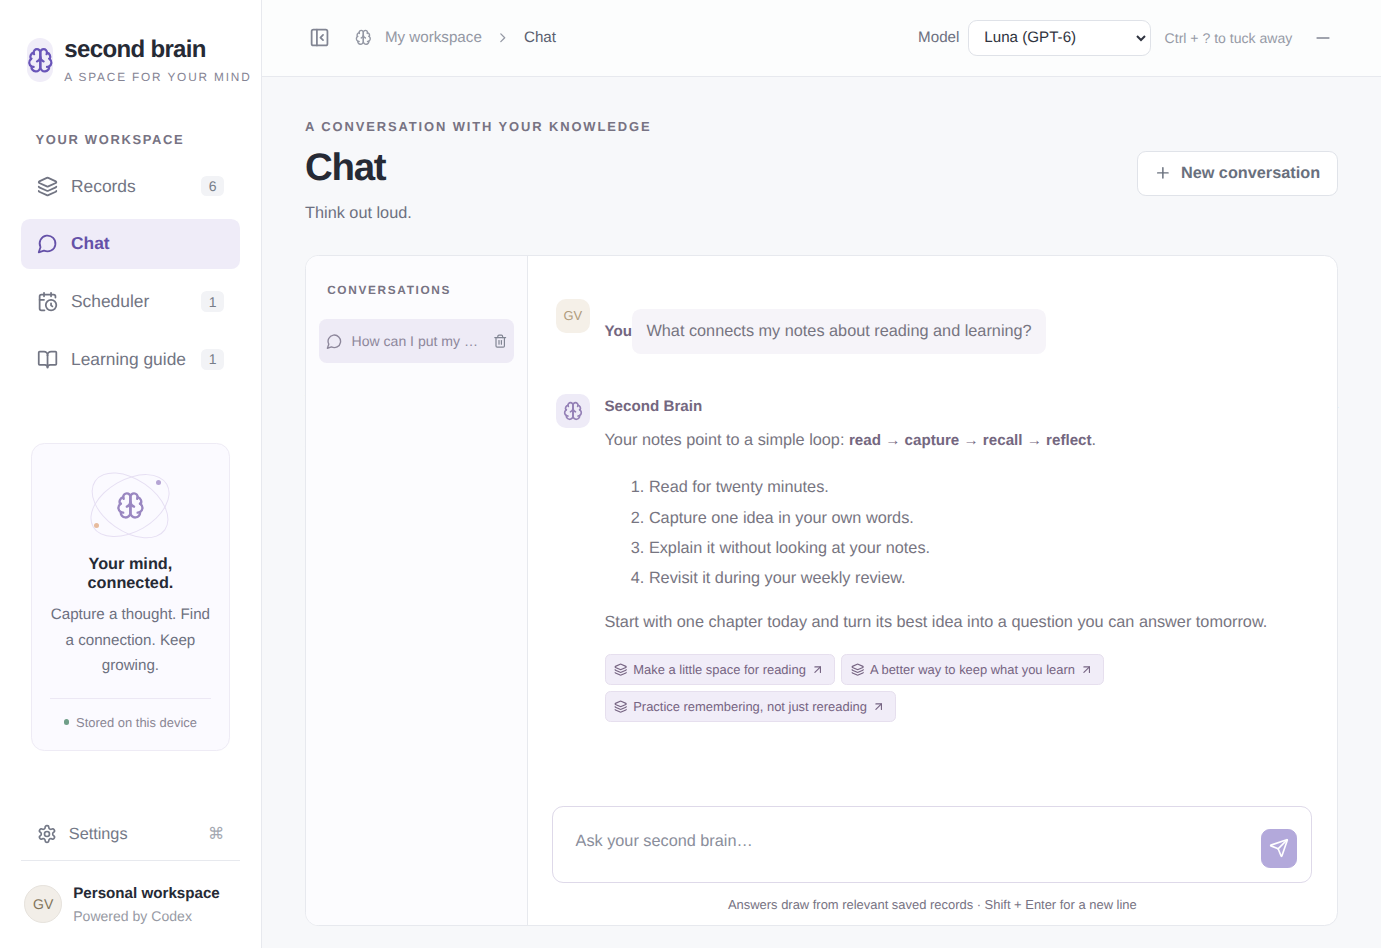
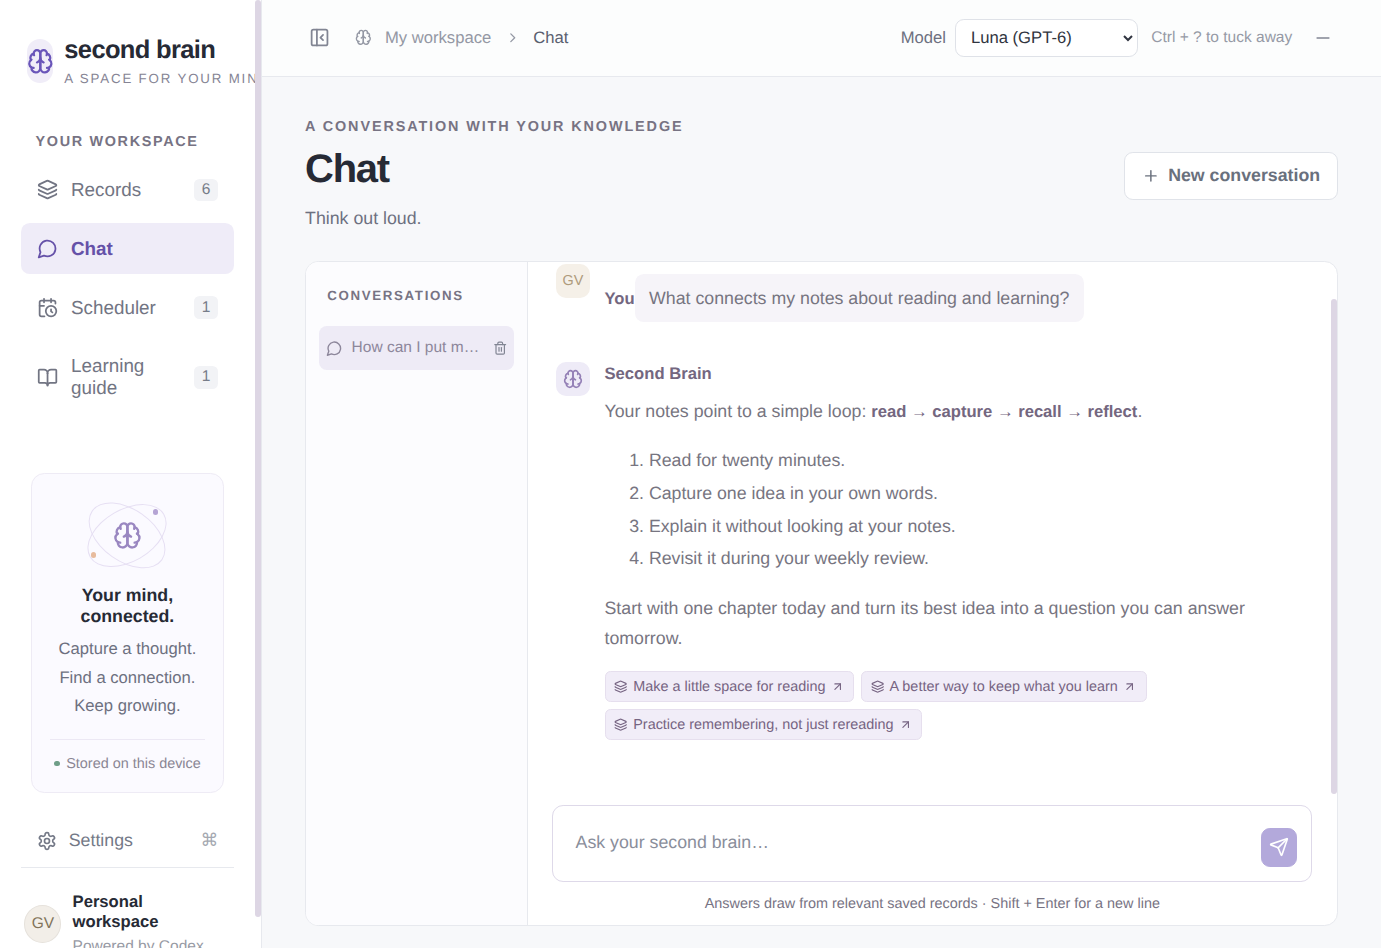
Enable login startup, LocalAM tracking, and persistent text-size shortcuts

diff --git a/src/main.tsx b/src/main.tsx
@@ -273,6 +273,11 @@ function App() {
   const [data, setData] = useState<Snapshot | null>(null),
     [tab, setTab] = useState("Records"),
     [query, setQuery] = useState(""),
+    [fontPoints, setFontPoints] = useState(() => {
+      const saved = localStorage.getItem("brain.fontPoints");
+      const value = saved === null ? 3 : Number(saved);
+      return Number.isFinite(value) ? Math.min(12, Math.max(0, value)) : 3;
+    }),
     [sidebarCollapsed, setSidebarCollapsed] = useState(
       () => localStorage.getItem("brain.sidebarCollapsed") === "true",
     ),
@@ -297,10 +302,35 @@ function App() {
     } | null>(null);
   const chatEnd = useRef<HTMLDivElement>(null);
   useEffect(() => {
+    localStorage.setItem("brain.fontPoints", String(fontPoints));
+  }, [fontPoints]);
+  useEffect(
+    () =>
+      api.onFontAdjust((direction) =>
+        setFontPoints((current) =>
+          Math.min(12, Math.max(0, current + direction)),
+        ),
+      ),
+    [],
+  );
+  useEffect(() => {
     localStorage.setItem("brain.sidebarCollapsed", String(sidebarCollapsed));
   }, [sidebarCollapsed]);
   useEffect(() => {
     const shortcuts = (event: KeyboardEvent) => {
+      if (
+        event.ctrlKey &&
+        !event.altKey &&
+        !event.metaKey &&
+        ["+", "=", "-"].includes(event.key)
+      ) {
+        event.preventDefault();
+        event.stopPropagation();
+        setFontPoints((current) =>
+          Math.min(12, Math.max(0, current + (event.key === "-" ? -1 : 1))),
+        );
+        return;
+      }
       if (
         !event.ctrlKey ||
         event.altKey ||
@@ -458,7 +488,10 @@ function App() {
     "Learning guide": "Follow your curiosity.",
   };
   return (
-    <div className={`app ${sidebarCollapsed ? "sidebar-collapsed" : ""}`}>
+    <div
+      className={`app ${sidebarCollapsed ? "sidebar-collapsed" : ""}`}
+      style={{ "--font-increase": `${fontPoints}pt` } as React.CSSProperties}
+    >
       <aside
         className="sidebar"
         id="workspace-sidebar"
@@ -2244,6 +2277,10 @@ function SettingsDialog({
         )}
         <div className="settings-shortcuts">
           <h3>Workspace shortcuts</h3>
+          <p>
+            <span>Increase / decrease text size</span>
+            <kbd>Ctrl++ / Ctrl+-</kbd>
+          </p>
           <p>
             <span>Toggle sidebar</span>
             <kbd>Ctrl + E</kbd>

diff --git a/src/types.ts b/src/types.ts
@@ -78,6 +78,7 @@ export type Snapshot = {
 declare global {
   interface Window {
     brain: Record<string, (...args: any[]) => Promise<any>> & {
+      onFontAdjust: (callback: (direction: number) => void) => () => void;
       onChange: (callback: () => void) => () => void;
       onNotice: (callback: (message: string) => void) => () => void;
     };

diff --git a/src/style.css b/src/style.css
@@ -16,7 +16,7 @@
   --surface: #fff;
   --soft: #f2effa;
   --radius: 12px;
-  --font-increase: 2pt;
+  --font-increase: 3pt;
 }
 * {
   box-sizing: border-box;
@@ -2115,4 +2115,8 @@ html:has(.bubble-shell) {
   .sidebar-note {
     display: none;
   }
+}
+
+.app {
+  font-size: calc(14px + var(--font-increase));
 }

diff --git a/README.md b/README.md
@@ -44,12 +44,31 @@ For development, run `npm run dev`. On Linux, `npm run install:desktop` adds Sec
 
 Open **Settings** to set an absolute Codex executable path if desktop apps cannot find your shell's PATH. Luna (`gpt-6-luna`) is the default. Use the model selector in the top bar for any new request, or choose a default under Settings. The selector reads your Codex model catalog; Settings also accepts a custom model ID. The selection applies to records, chat, schedules, and learning guides. **Check saved connection** checks the CLI version and authentication status without making an LLM call.
 
+## Start automatically on Linux
+
+Enable the brain bubble at graphical login:
+
+```sh
+npm run install:startup
+```
+
+This installs a per-user XDG autostart entry at `~/.config/autostart/second-brain.desktop`. The bubble appears after login while the workspace stays hidden. Click the bubble or use Ctrl + ? to open it. Running a second background instance keeps the existing workspace hidden. Remove the autostart file to disable login startup. When registered as the Second Brain desktop app in LocalAM, a standalone startup instance also reports its PID to LocalAM so it can show running status and stop it. Instances already launched in a manager-owned process group keep the manager’s existing tracking.
+
+If Ubuntu blocks Electron with a sandbox-helper or user-namespace error, install the app-specific AppArmor profile:
+
+```sh
+npm run install:sandbox
+```
+
+This validates the profile, requests administrator authentication through the system dialog, and installs `/etc/apparmor.d/second-brain` for this project's Electron and packaged executables. Electron's sandbox remains enabled. If you move the project, rerun both installers.
+
 ## Desktop companion
 
 - Drag the brain bubble in any direction, to any screen edge or monitor; its position is remembered. Linux uses a dock-style companion window and full display bounds so the bubble can reach the system-bar area. The desktop controls whether its own panel draws above the bubble.
 - The bubble tracks the native desktop cursor during a drag and keeps a fixed window size, including on displays with fractional scaling. Its transparent window cannot grow into an invisible overlay over the workspace.
 - If you lose the bubble, use **Settings → Show / reset bubble** or the tray menu to reveal it on the current monitor.
 - The bubble is 20% smaller, uses 70% opacity, and keeps its own zoom setting so workspace zoom cannot clip it.
+- Text is one point larger than the previous default. Use **Ctrl + +** (or Ctrl + =) to increase text by one point, and **Ctrl + -** to decrease it. The setting is remembered and changes text without zooming the brain bubble.
 - Toggle the sidebar with **Ctrl + E** or the sidebar button in the top bar. The collapsed menu keeps navigation icons available and remembers its state. While the app is focused, **Ctrl + 1** opens Records, **Ctrl + 2** Chat, **Ctrl + 3** Scheduler, and **Ctrl + 4** Learning guide.
 - Click the bubble or press **Ctrl + Shift + /** (Ctrl + ? on a US keyboard) to expand or collapse the workspace.
 - Select text in another app and press **Ctrl + Shift + .** (Ctrl + > on a US keyboard) to create a record immediately.
